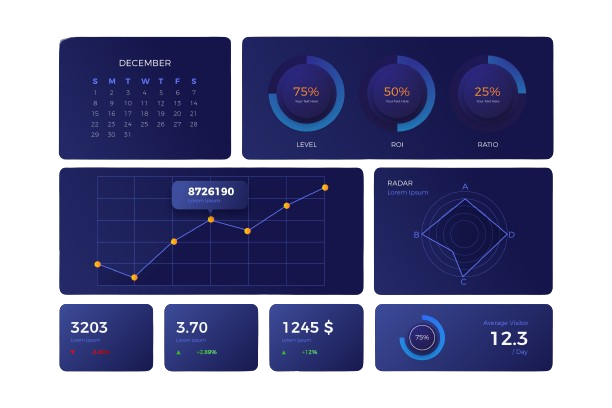
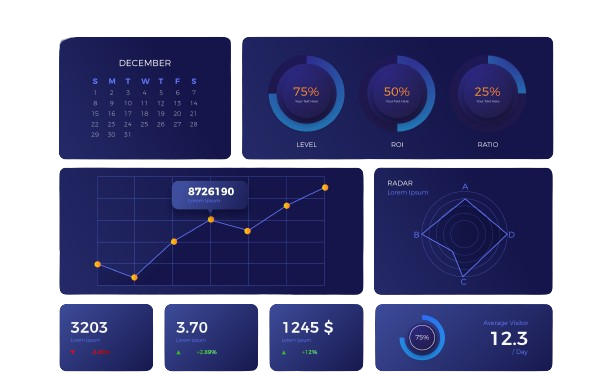
V0.22 - Add description for picture

Changed region(s): [[0.0931, 0.088, 0.9314, 0.9973], [0.7451, 0.176, 0.7761, 0.2053], [0.5899, 0.176, 0.6209, 0.2053]]

diff --git a/index.html b/index.html
@@ -189,6 +189,7 @@
                       Mais aussi le pourcentage de cours effectués et les résultats des différents quiz possibles.
                     </p>
                     <img src="assets/img/dashboard.png" alt="Stage">
+                    <p id="#description">(Image non représentative)</p>
                   </div>
                 </div>
               </div>

diff --git a/assets/css/main.css b/assets/css/main.css
@@ -1520,8 +1520,6 @@ margin-top:0} */
     height: auto;
 }
 
-
-
 .hire
 {
 	position:relative;
